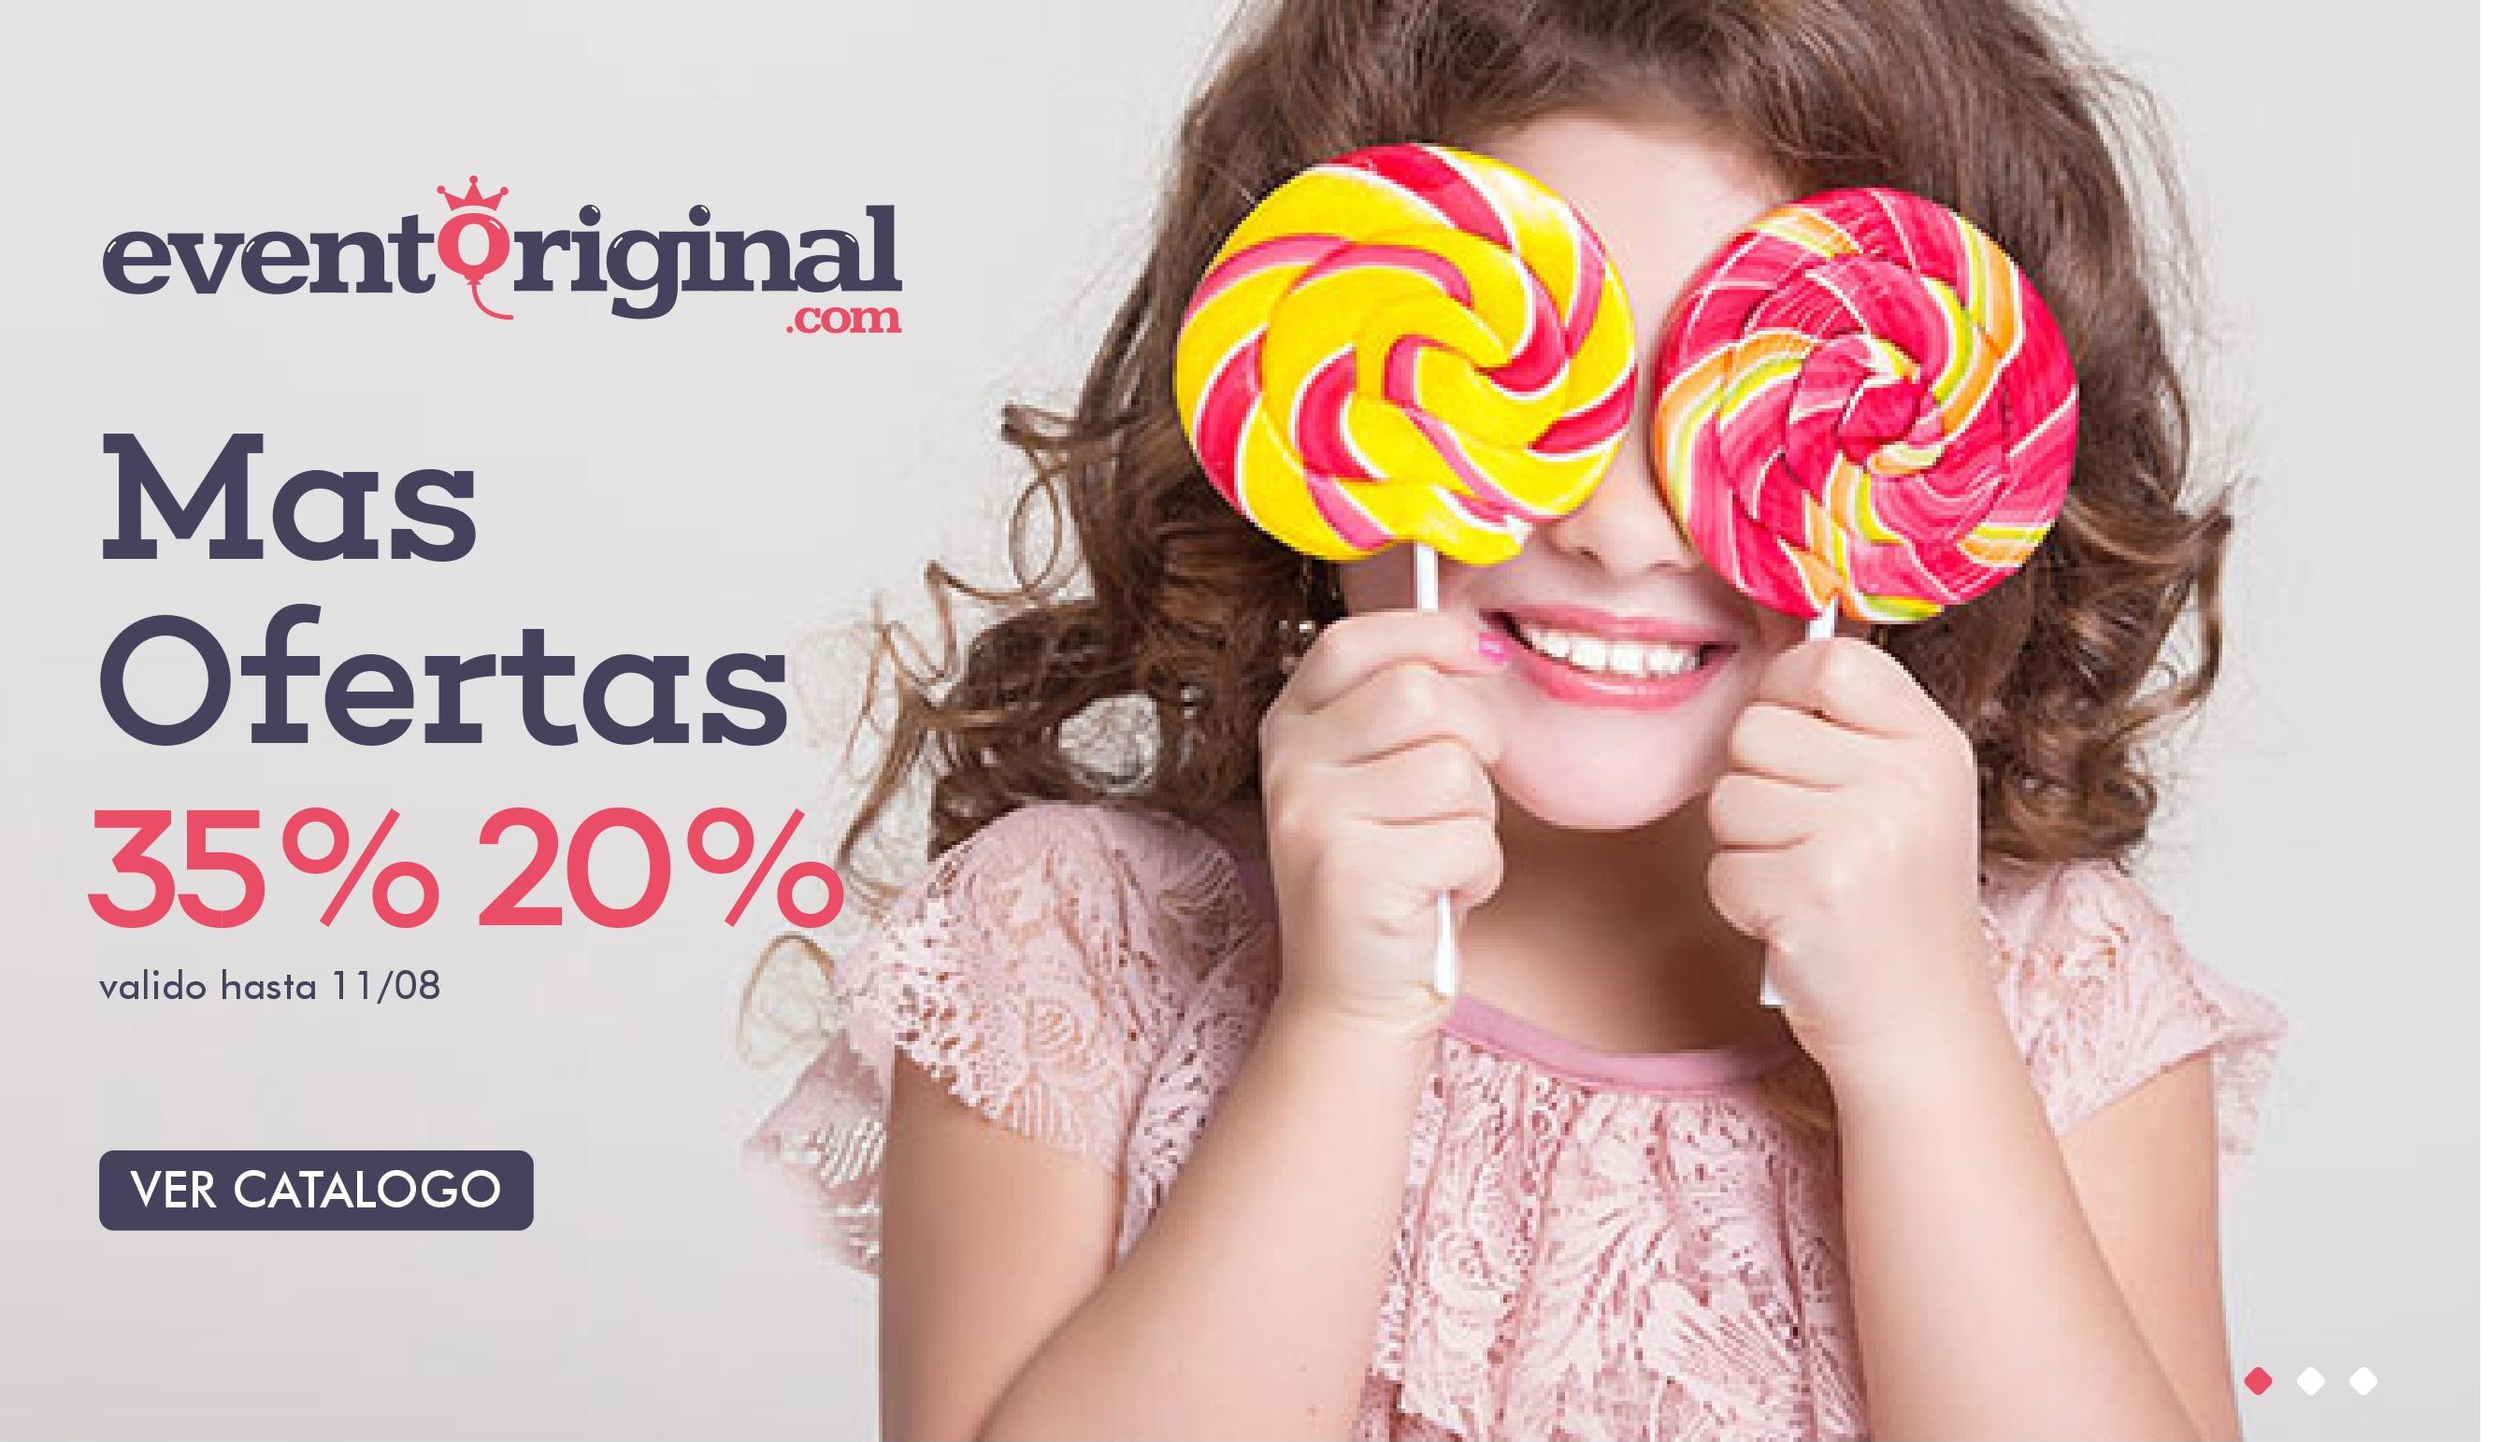
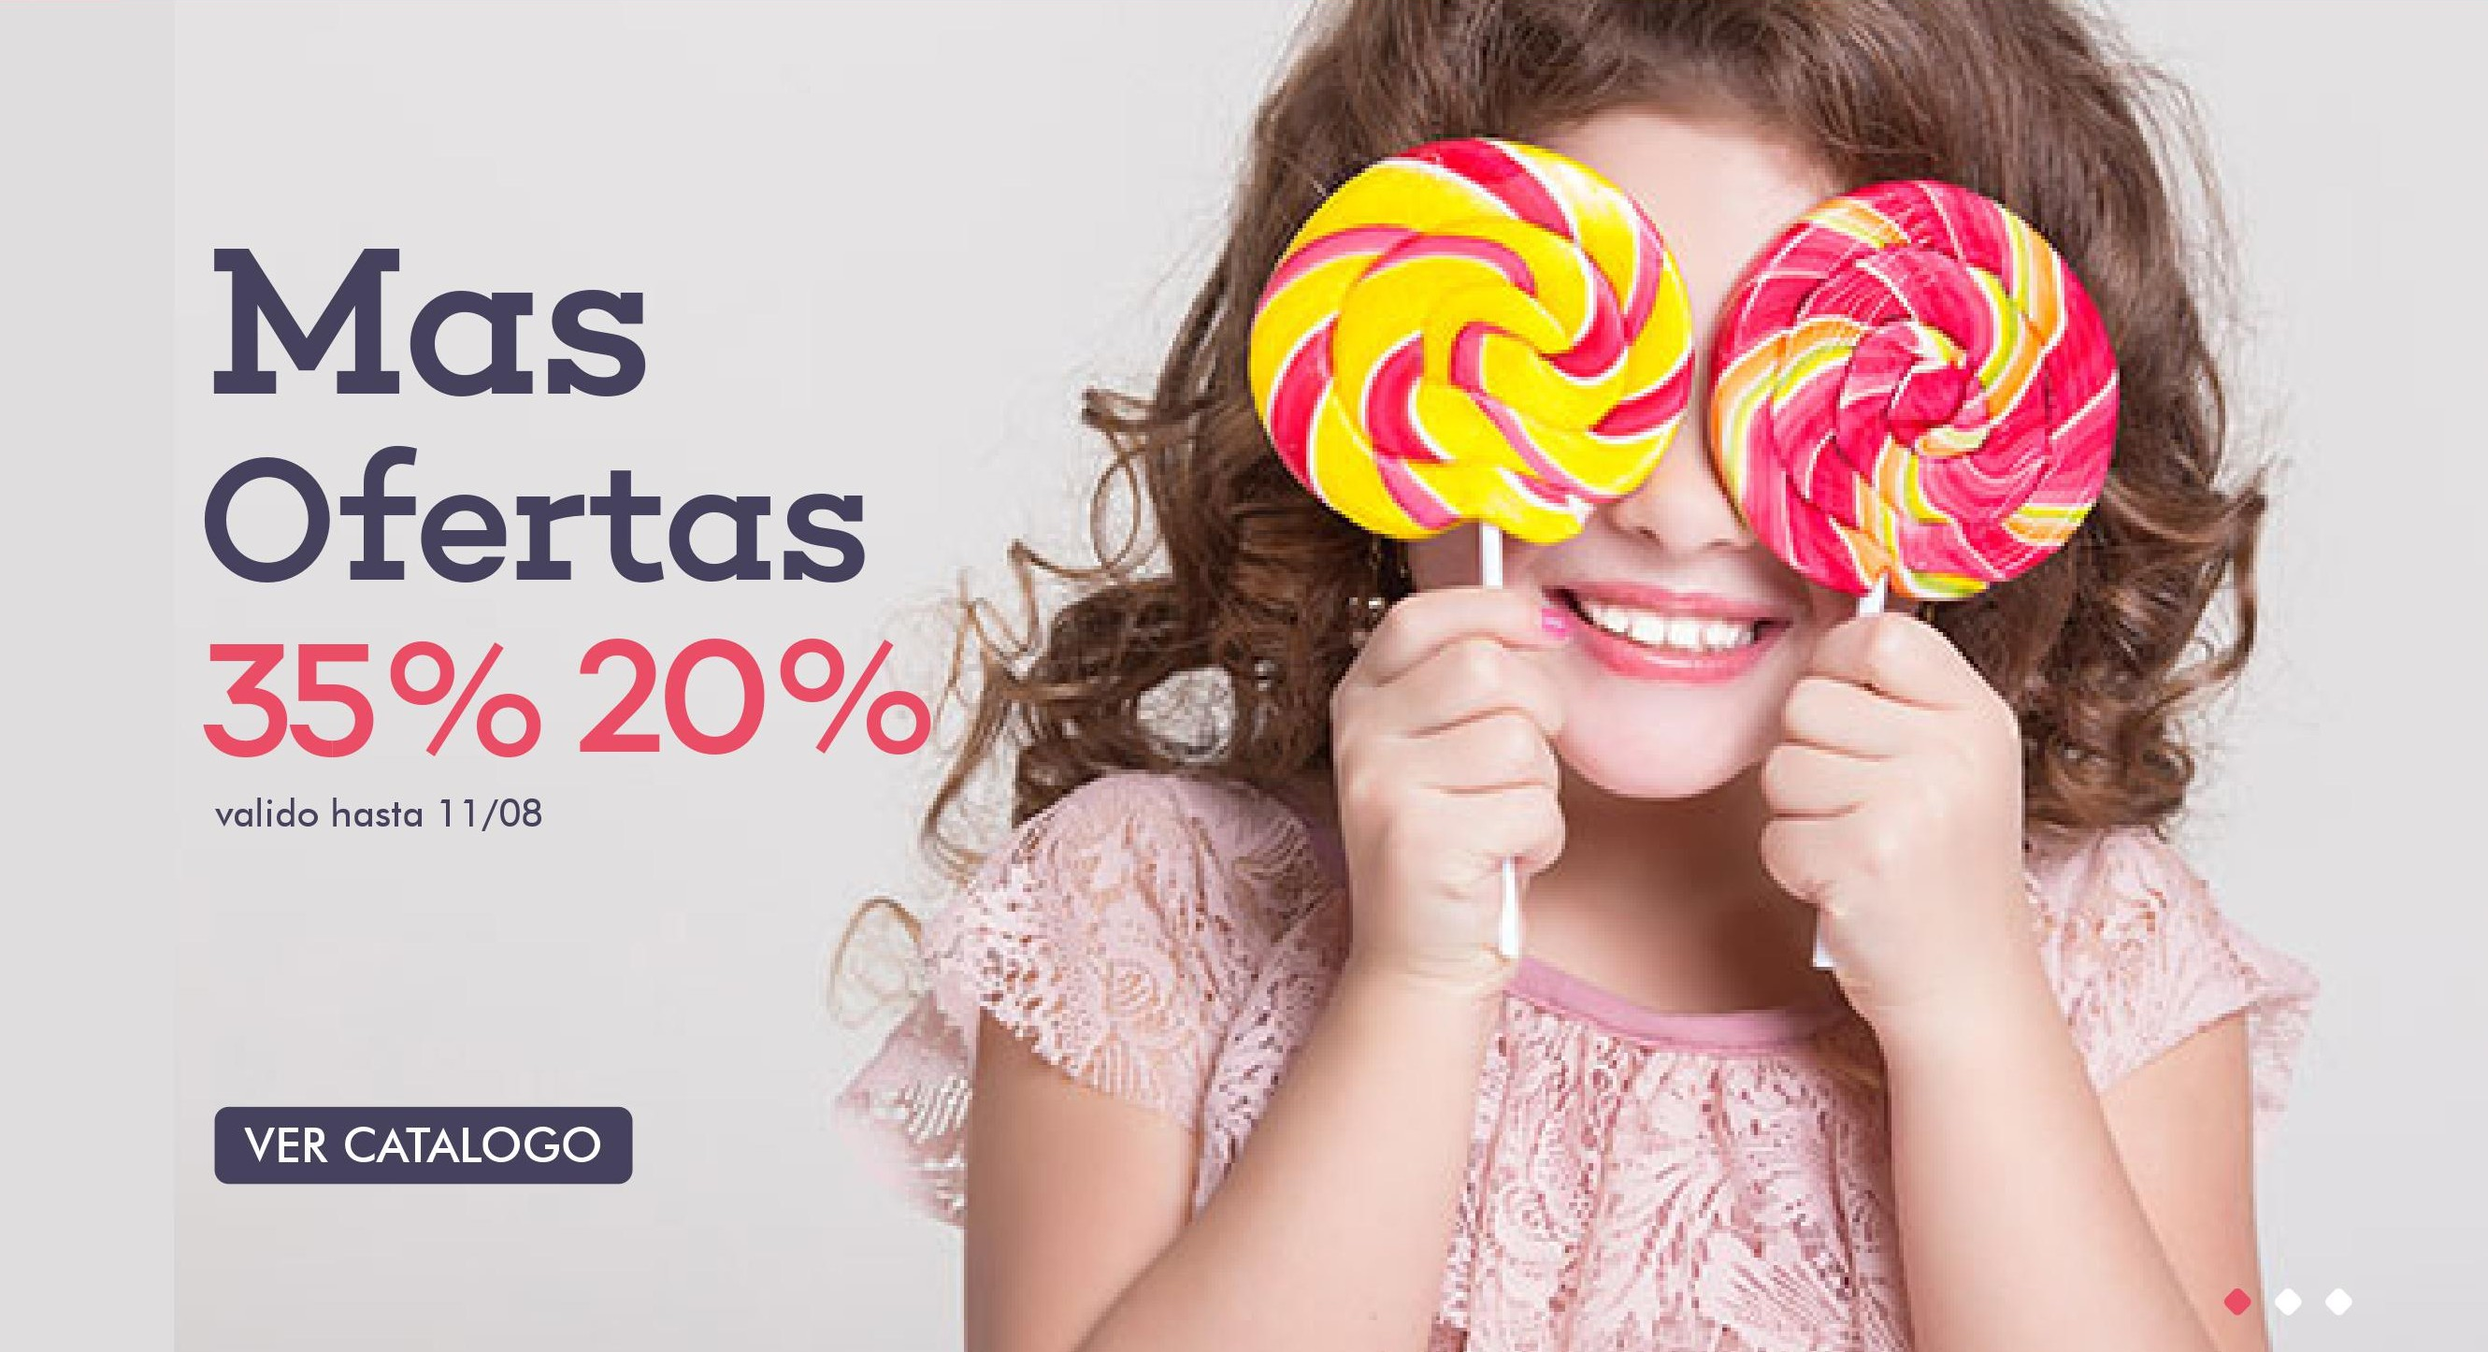
WIP

diff --git a/frontend/src/public/css/style.css b/frontend/src/public/css/style.css
@@ -65,6 +65,36 @@ Tags: two-columns, left-sidebar, fixed-layout, responsive-layout, custom-backgro
 /* */
 /*----------- 1. Body --------------*/
 
+@font-face {
+    font-family: ChoplinExtraLight;
+    src: url("../fonts/Choplin-ExtraLight.otf");
+}
+
+@font-face {
+    font-family: ChoplinMedium;
+    src: url("../fonts/Choplin-Medium");
+}
+
+@font-face {
+    font-family: TradeGothicLTStd;
+    src: url("../fonts/TradeGothicLTStd.otf");
+}
+
+@font-face {
+    font-family: TradeGothicLTStdCn;
+    src: url("../fonts/TradeGothicLTStd-Cn18.otf");
+}
+
+@font-face {
+    font-family: tt0142m;
+    src: url("../fonts/tt0142m.ttf");
+}
+
+@font-face {
+    font-family: tt0144m;
+    src: url("../fonts/tt0144m.ttf");
+}
+
 body {
 	font-family: 'Open Sans', sans-serif;
 	font-size: 14px;
@@ -77,7 +107,7 @@ h2, .h2 {
 	font-weight: bold;
 }
 a {
-	color: #1fc0a0;
+	color: #605d7d;
 }
 a:hover {
 	color: #333;
@@ -326,7 +356,7 @@ a.button:hover {
 }
 .header-top {
 	padding: 5px 0px 5px 0px;
-	font-family: 'Open Sans', sans-serif;
+	font-family: 'TradeGothicLTStd', sans-serif;
 	/*border-bottom: 1px solid #e5e5e5;*/
 	background: #fff;
 	font-size:13px

diff --git a/frontend/src/public/css/revslider.css b/frontend/src/public/css/revslider.css
@@ -362,7 +362,7 @@ website:   	http://www.themesoft.com/
 	z-index: 100;
 	cursor: pointer;
 	position: relative;
-	background: #1fc0a0 url(../images/left-a.png) no-repeat 13px 8px;
+	background: #C8445F url(../images/left-a.png) no-repeat 13px 8px;
 	width: 40px;
 	height: 45px;
 	left: 0px !important;
@@ -373,7 +373,7 @@ website:   	http://www.themesoft.com/
 	z-index: 100;
 	cursor: pointer;
 	position: relative;
-	background: #1fc0a0 url(../images/right-a.png) no-repeat 13px 8px;
+	background: #C8445F url(../images/right-a.png) no-repeat 13px 8px;
 	width: 40px;
 	height: 45px;
 	right: 0 !important;

diff --git a/frontend/src/resources/views/frontend/partials/slider.blade.php b/frontend/src/resources/views/frontend/partials/slider.blade.php
@@ -14,20 +14,8 @@
             <div id='rev_slider_4' class='rev_slider fullwidthabanner'>
               <ul>
                 <li data-transition='random' data-slotamount='7' data-masterspeed='1000' data-thumb='images/banner-09.jpg'><img src='images/banner-09.jpg' alt="slide-img" data-bgposition='left top' data-bgfit='cover' data-bgrepeat='no-repeat' />
-                  <div class="info">
-                    <div class='tp-caption ExtraLargeTitle sft  tp-resizeme ' data-endspeed='500' data-speed='500' data-start='1100' data-easing='Linear.easeNone' data-splitin='none' data-splitout='none' data-elementdelay='0.1' data-endelementdelay='0.1' style='z-index:2;max-width:auto;max-height:auto;white-space:nowrap;'><span>Crocus Deal</span> </div>
-                    <div class='tp-caption LargeTitle sfl  tp-resizeme ' data-endspeed='500' data-speed='500' data-start='1300' data-easing='Linear.easeNone' data-splitin='none' data-splitout='none' data-elementdelay='0.1' data-endelementdelay='0.1' style='z-index:3;max-width:auto;max-height:auto;white-space:nowrap;'><span>digital Time</span> </div>
-                    <div class='tp-caption Title sft  tp-resizeme ' data-endspeed='500' data-speed='500' data-start='1450' data-easing='Power2.easeInOut' data-splitin='none' data-splitout='none' data-elementdelay='0.1' data-endelementdelay='0.1' style='z-index:4;max-width:auto;max-height:auto;white-space:nowrap;'>Lorem ipsum dolor sit amet, consectetur adipiscing elit.</div>
-                    <div class='tp-caption sfb  tp-resizeme ' data-endspeed='500' data-speed='500' data-start='1500' data-easing='Linear.easeNone' data-splitin='none' data-splitout='none' data-elementdelay='0.1' data-endelementdelay='0.1' style='z-index:4;max-width:auto;max-height:auto;white-space:nowrap;'><a href='#' class="buy-btn">Shop Now</a> </div>
-                  </div>
                 </li>
                 <li data-transition='random' data-slotamount='7' data-masterspeed='1000' data-thumb='images/banner-09.jpg'><img src='images/banner-09.jpg' alt="slide-img" data-bgposition='left top' data-bgfit='cover' data-bgrepeat='no-repeat' />
-                  <div class="info">
-                    <div class='tp-caption ExtraLargeTitle sft slide2  tp-resizeme ' data-endspeed='500' data-speed='500' data-start='1100' data-easing='Linear.easeNone' data-splitin='none' data-splitout='none' data-elementdelay='0.1' data-endelementdelay='0.1' style='z-index:2;max-width:auto;max-height:auto;white-space:nowrap;padding-right:0px'><span>Spring Collection</span> </div>
-                    <div class='tp-caption LargeTitle sfl  tp-resizeme ' data-endspeed='500' data-speed='500' data-start='1300' data-easing='Linear.easeNone' data-splitin='none' data-splitout='none' data-elementdelay='0.1' data-endelementdelay='0.1' style='z-index:3;max-width:auto;max-height:auto;white-space:nowrap;'>Hot Fashion</div>
-                    <div class='tp-caption Title sft  tp-resizeme ' data-endspeed='500' data-speed='500' data-start='1500' data-easing='Power2.easeInOut' data-splitin='none' data-splitout='none' data-elementdelay='0.1' data-endelementdelay='0.1' style='z-index:4;max-width:auto;max-height:auto;white-space:nowrap;'>Lorem ipsum dolor sit amet, consectetur adipiscing elit.</div>
-                    <div class='tp-caption sfb  tp-resizeme ' data-endspeed='500' data-speed='500' data-start='1500' data-easing='Linear.easeNone' data-splitin='none' data-splitout='none' data-elementdelay='0.1' data-endelementdelay='0.1' style='z-index:4;max-width:auto;max-height:auto;white-space:nowrap;'><a href='#' class="buy-btn">Buy Now</a> </div>
-                  </div>
                 </li>
               </ul>
             </div>
